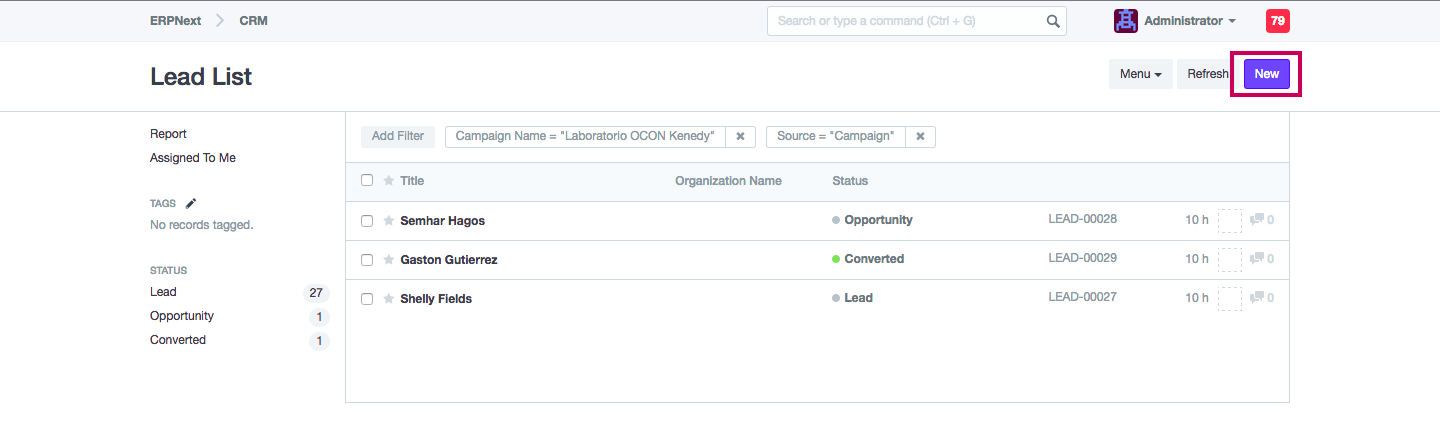
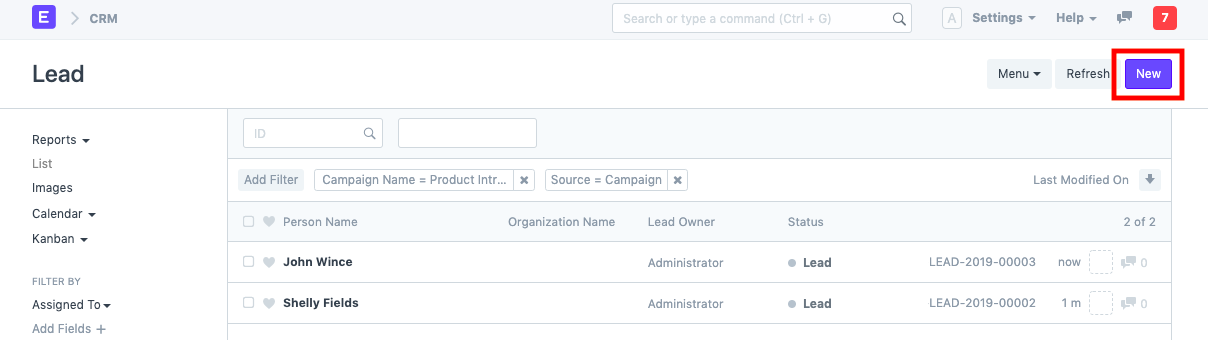
docs: Email Campaign and Campaign (#436)
* docs: email-campaign

* fix: changed screenshots

* fix: changed screenshots

* fix: updated screenshots

* Update campaign.md

* Update email-campaign.md

* fix: changes updated

* fix: changes screenshots

diff --git a/user/manual/en/CRM/email-campaign.md b/user/manual/en/CRM/email-campaign.md
@@ -1,0 +1,73 @@
+<!-- add-breadcrumbs -->
+# Email Campaign
+
+**An Email Campaign is a coordinated set of emails sent to people according to a particular schedule.**
+
+Email Campaigns are still one of the most effective ways to reach your Customers, Contacts or Leads and keep them engaged. For example, you could set up Email Campaigns for introducing your product to the customers, with every email revealing an interesting feature of your product.
+
+To create an Email Campaign, go to:
+
+ > Home > CRM > Email Campaign
+
+## 1. How to Create an Email Campaign
+
+1. Go to the Email Campaign list, click on New.
+2. Select the [Campaign](/docs/user/manual/en/CRM/campaign) for which you want to set up an Email Campaign.
+3. Set the 'Start Date' for the Email Campaign.
+4. In 'Email Campaign For', select whether you want to set up Email Campaign for a Lead or a Contact.
+5. In 'Recipient', select the respective Lead or Contact for whom you want to start the Email Campaign.
+6. In 'Sender', select the user of the system who should be the sender of the emails.
+7. Save
+
+    <img class="screenshot" alt="Email Campaign" src="{{docs_base_url}}/assets/img/crm/email-campaign.png">
+
+    The above Email Campaign is for the following Campaign:
+
+    <img class="screenshot" alt="Campaign Schedule" src="{{docs_base_url}}/assets/img/crm/campaign-email-schedule.png">    
+
+    **Note**: The **Send After (days)** field in Campaign specifies the day on which email is to be sent relative to the **Start Date** of **Email Campaign**. Notice the 'End Date' in the above Email Campaign. It is '26-07-2019', which is 4 days after the 'Start Date', '22-07-2029', as the Campaign Schedule ends on day 4.
+
+### 1.1 Create multiple Email Campaigns for a Campaign
+
+You can also create new Email Campaigns for different Leads or Contacts for the same Campaign though the Campaign Dashboard.
+
+1. Go to the Campaign for which you want to create Email Campaigns.
+2. Click on + in front of Email Campaigns to create a new Email Campaign for the Campaign.
+
+    <img class="screenshot" alt="Email Campaigns from Dashboard" src="{{docs_base_url}}/assets/img/crm/email-campaigns-from-dash.png">
+
+## 2. Features
+
+### 2.1 Linked Communication
+
+When emails are sent to the respective leads or contacts, Communication is linked to the Email Campaign document. You can view all the emails sent in your document.
+
+<img class="screenshot" alt="Linked Communication" src="{{docs_base_url}}/assets/img/crm/email-campaign-linked-comm.png">
+
+### 2.2 Unsubscribe from Email Campaign
+
+If a lead or contact does not want to continue getting emails regarding the campaign, he or she can unsubscribe from the Email Campaign via the unsubscribe link sent with the email.
+
+<img class="screenshot" alt="Unsubscribe link" src="{{docs_base_url}}/assets/img/crm/unsubscribe-link.png">
+
+When the lead or contact unsubscribes, the status of the Email Campaign document changes to 'Unsubscribed'.
+
+<img class="screenshot" alt="Unsubscribed" src="{{docs_base_url}}/assets/img/crm/email-campaign-unsubscribed.png">
+
+### 2.3 Status indication
+
+Status indicates the state of the Email Campaign, the various Statuses are:
+
+- **Scheduled**: When the Email Campaign has not yet started but scheduled on a future 'Start Date'.
+- **In Progress**: When there are still more campaign mails to be sent.
+- **Completed**: When all the emails have been sent according to the schedule set up in the Campaign.
+- **Unsubscribed**: When the Lead or Contact unsubscribes from the Campaign.
+
+    <img class="screenshot" alt="Email Campaign Status" src="{{docs_base_url}}/assets/img/crm/email-campaign-status.png">
+
+## 3. Related Topics
+1. [Campaign](/docs/user/manual/en/CRM/campaign)
+1. [Lead](/docs/user/manual/en/CRM/lead)
+1. [Contact](/docs/user/manual/en/CRM/contact)
+
+Next: [Newsletter](/docs/user/manual/en/CRM/newsletter)

diff --git a/user/manual/en/CRM/campaign.md b/user/manual/en/CRM/campaign.md
@@ -2,21 +2,24 @@
 # Campaign
 
 **A Campaign is a full-scale implementation of a sales strategy to promote a
-product or a service.**
+product or service.**
 
 This is done in a market segment of a particular geographical area to achieve specified objectives.
 
+To access Campaign, go to:
+> Home > CRM > Campaign
+
 <img class="screenshot" alt="Campaign" src="{{docs_base_url}}/assets/img/crm/campaign.png">
 
-### 1. How to create a Campaign
-1. Go to **CRM > Setup > Campaign > New**.
-2. Enter a name for the campaign and select the [Naming Series](/docs/user/manual/en/setting-up/settings/naming-series).
+## 1. How to Create a Campaign
+1. Go to the Campaign list, click on new.
+2. Enter a name for the campaign.
 3. Enter a description to describe what the campaign is about.
 4. Save.
 
-### 2. Features
+## 2. Features
 
-#### 2.1 Tag Campaign in Lead, Opportunity and Quotation
+### 2.1 Tag Campaign in Lead, Opportunity, and Quotation
 
 When a marketing campaign generates a lead or an opportunity, you can tag the campaign while creating the [Lead](/docs/user/manual/en/CRM/lead) or [Opportunity](/docs/user/manual/en/CRM/opportunity). You can also tag the campaign in [Quotation](/docs/user/manual/en/selling/quotation).
 
@@ -25,7 +28,7 @@ This helps in assessing the effectiveness of a marketing campaign by calculating
 <img class="screenshot" alt="Campaign - View Leads" src="{{docs_base_url}}/assets/img/crm/campaign-in-lead.gif">
 
 
-#### 2.2 View Leads Generated by a Campaign
+### 2.2 View Leads Generated by a Campaign
 
 1. Click on 'View Leads' button in the campaign.
 
@@ -34,11 +37,33 @@ This helps in assessing the effectiveness of a marketing campaign by calculating
 2. You will see a filtered list of leads made against the campaign.
 3. You can also create new leads against the campaign by clicking on 'New'
 
-<img class="screenshot" alt="Campaign - New Lead" src="{{docs_base_url}}/assets/img/crm/campaign-new-lead.png">
+     <img class="screenshot" alt="Campaign - New Lead" src="{{docs_base_url}}/assets/img/crm/campaign-new-lead.png">
 
-#### 3. Related Topics
+### 2.3 Set up email schedules for Email Campaigns
+
+If you want to carry out a campaign using emails for your leads or contacts, [Email Campaign](/docs/user/manual/en/CRM/email-campaign) serves the purpose.
+
+You will have to set up a schedule for the campaign. Click on 'Add Row' to add an entry to the campaign schedule.
+
+<img class="screenshot" alt="Campaign Schedule" src="{{docs_base_url}}/assets/img/crm/campaign-email-schedule.png">
+
+-  In **Email Template**, select an 'Email Template' which you would like to send via email to the lead or contact. You can create one as follows:
+
+     <img class="screenshot" alt="Campaign - Email Template" src="{{docs_base_url}}/assets/img/crm/email-template.png">
+
+-  In **Send After (days)**, specify the number of days after which the respective email should be sent. Using this field, the day on which email is to be sent is calculated relative to the **Start Date** of **Email Campaign**.
+
+### 2.4 Dashboard
+ 
+The Campaign dashboard shows you all the Email Campaigns linked to the Campaign. You can also create a new Email Campaign from here.
+
+<img class="screenshot" alt="Campaign Dashboard" src="{{docs_base_url}}/assets/img/crm/email-campaigns-from-dash.png">
+
+
+## 3. Related Topics
 1. [Lead](/docs/user/manual/en/CRM/lead)
 1. [Opportunity](/docs/user/manual/en/CRM/opportunity)
 1. [Quotation](/docs/user/manual/en/selling/quotation)
+1. [Email Campaign](/docs/user/manual/en/CRM/email-campaign)
 
-{next}
+Next: [Email Campaign](/docs/user/manual/en/CRM/email-campaign)

diff --git a/user/manual/en/CRM/index.md b/user/manual/en/CRM/index.md
@@ -15,6 +15,7 @@ The CRM module has the following features:
 1. [Contact](/docs/user/manual/en/CRM/contact)
 1. [Address](/docs/user/manual/en/CRM/address)
 1. [Campaign](/docs/user/manual/en/CRM/campaign)
+1. [Email Campaign](/docs/user/manual/en/CRM/email-campaign)
 1. [Newsletter](/docs/user/manual/en/CRM/newsletter)
 
 ##### 1.2 Reports
